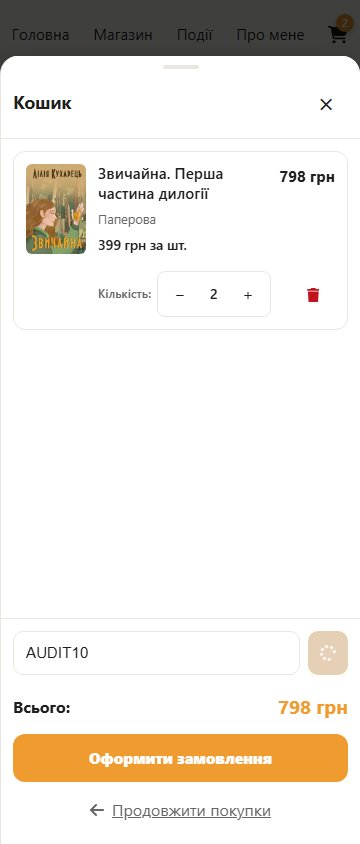
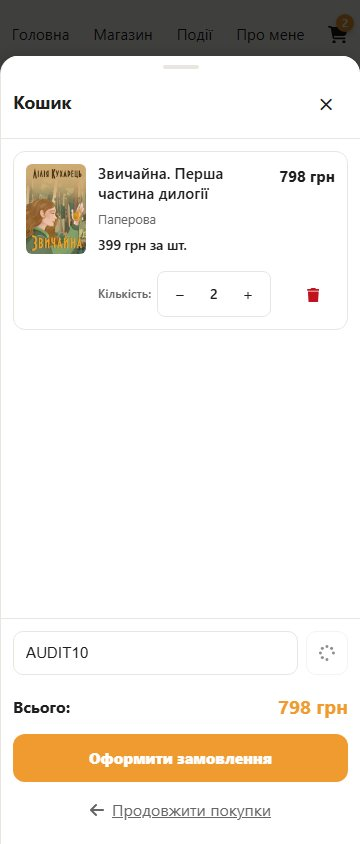
style: keep all promo actions secondary (ZVY-71) [skip netlify]

Changed region(s): [[0.8556, 0.7393, 0.9778, 0.8009]]

diff --git a/tests/e2e/promo-recovery.spec.ts b/tests/e2e/promo-recovery.spec.ts
@@ -64,6 +64,7 @@ for (const viewport of [{ width: 1440, height: 900 }, { width: 390, height: 844 
         await route.fulfill({ status, json: status === 200 ? promo : { message: "Controlled promo failure" } });
       });
       await input(page).fill("AUDIT10");
+      if (process.env.ZVY71_EVIDENCE_PHASE === "after") await capture(page, info, "entry", viewport.width);
       await cart(page).getByRole("button", { name: "Застосувати", exact: true }).click();
       try {
         await expect(input(page).locator("..").getByRole("button")).toBeDisabled();
@@ -138,9 +139,7 @@ for (const viewport of [{ width: 1440, height: 900 }, { width: 390, height: 844 
         const action = input(page).locator("..").getByRole("button");
         const checkout = cart(page).getByRole("button", { name: "Оформити замовлення", exact: true });
         const checkoutBackground = await checkout.evaluate(node => getComputedStyle(node).backgroundColor);
-        if (failure === "503") {
-          expect(await action.evaluate(node => getComputedStyle(node).backgroundColor)).not.toBe(checkoutBackground);
-        }
+        expect(await action.evaluate(node => getComputedStyle(node).backgroundColor)).not.toBe(checkoutBackground);
         await button.click();
         if (failure === "503") {
           try {
@@ -182,7 +181,10 @@ for (const viewport of [{ width: 1440, height: 900 }, { width: 390, height: 844 
         return route.fulfill({ status: 404, json: { message: "Invalid code" } });
       });
       const apply = input(page).locator("..").getByRole("button");
+      const checkoutBackground = await cart(page).getByRole("button", { name: "Оформити замовлення", exact: true })
+        .evaluate(node => getComputedStyle(node).backgroundColor);
       await expect(apply).toBeDisabled();
+      expect(await apply.evaluate(node => getComputedStyle(node).backgroundColor)).not.toBe(checkoutBackground);
       await input(page).fill("   ");
       await input(page).press("Enter");
       expect(calls).toBe(0);
@@ -191,6 +193,7 @@ for (const viewport of [{ width: 1440, height: 900 }, { width: 390, height: 844 
       try {
         await expect(apply).toBeDisabled();
         await expect(apply).toHaveAccessibleName("Перевіряємо промокод");
+        expect(await apply.evaluate(node => getComputedStyle(node).backgroundColor)).not.toBe(checkoutBackground);
         await expect(input(page)).toHaveAttribute("readonly", "");
         await input(page).press("x");
         await expect(input(page)).toHaveValue("AUDIT10");
@@ -200,6 +203,7 @@ for (const viewport of [{ width: 1440, height: 900 }, { width: 390, height: 844 
         await unchanged(page, selection);
       } finally { release(); }
       await expect(cart(page).getByRole("alert")).toBeVisible();
+      expect(await apply.evaluate(node => getComputedStyle(node).backgroundColor)).not.toBe(checkoutBackground);
       await input(page).fill("CORRECTED");
       await expect(cart(page).getByRole("alert")).toHaveCount(0);
       await expect(apply).toBeEnabled();

diff --git a/src/components/organisms/ShoppingCart.tsx b/src/components/organisms/ShoppingCart.tsx
@@ -42,8 +42,7 @@ export default function ShoppingCart({
 }: ShoppingCartProps) {
   const { appliedPromocode, discountAmount, getItemDiscount, applyPromocode, removePromocode } = useCart();
   const [promoInput, setPromoInput] = useState("");
-  const [applyingAction, setApplyingAction] = useState<"apply" | "retry" | null>(null);
-  const isApplying = applyingAction !== null;
+  const [isApplying, setIsApplying] = useState(false);
   const [promoFailure, setPromoFailure] = useState<"invalid" | "temporary" | null>(null);
   const applyingRef = useRef(false);
   const promoFeedbackId = useId();
@@ -95,7 +94,7 @@ export default function ShoppingCart({
   const handleApplyPromo = async () => {
     if (applyingRef.current || !promoInput.trim()) return;
     applyingRef.current = true;
-    setApplyingAction(promoFailure === "temporary" ? "retry" : "apply");
+    setIsApplying(true);
     setPromoFailure(null);
     try {
       await applyPromocode(promoInput.trim());
@@ -106,7 +105,7 @@ export default function ShoppingCart({
       setPromoFailure(status === 400 || status === 404 || status === 422 ? "invalid" : "temporary");
     } finally {
       applyingRef.current = false;
-      setApplyingAction(null);
+      setIsApplying(false);
     }
   };
 
@@ -277,7 +276,7 @@ export default function ShoppingCart({
                   <button
                     onClick={handleApplyPromo}
                     disabled={isApplying || !promoInput.trim()}
-                    className={`${styles.promoApplyBtn} ${promoFailure === "temporary" || applyingAction === "retry" ? styles.promoRetryBtn : ""}`}
+                    className={styles.promoApplyBtn}
                     aria-label={isApplying ? "Перевіряємо промокод" : undefined}
                   >
                     {isApplying ? <Icon name="spinner" spin /> : promoFailure === "temporary" ? "Повторити" : "Застосувати"}

diff --git a/src/components/organisms/ShoppingCart.module.css b/src/components/organisms/ShoppingCart.module.css
@@ -467,42 +467,23 @@
 
 .promoApplyBtn {
   padding: 0 20px;
-  background: var(--accent);
-  color: #fff;
-  border: none;
+  background: transparent;
+  color: var(--text);
+  border: 1px solid var(--border);
   border-radius: 10px;
-  font-weight: 700;
+  font-weight: 600;
   cursor: pointer;
-  transition: background 0.15s ease, transform 0.1s ease, box-shadow 0.15s ease;
+  transition: background 0.15s ease;
 }
 
 .promoApplyBtn:hover:not(:disabled) {
-  background: var(--accent);
-  transform: translateY(-1px);
-  box-shadow: 0 4px 12px rgba(240, 155, 48, 0.25);
-}
-
-.promoApplyBtn:active:not(:disabled) {
-  transform: translateY(0);
+  background: var(--accent-weak);
 }
 
 .promoApplyBtn:disabled {
   opacity: 0.5;
   cursor: not-allowed;
   filter: grayscale(0.5);
-}
-
-.promoRetryBtn {
-  background: transparent;
-  color: var(--text);
-  border: 1px solid var(--border);
-  font-weight: 600;
-}
-
-.promoRetryBtn:hover:not(:disabled) {
-  background: var(--accent-weak);
-  transform: none;
-  box-shadow: none;
 }
 
 .appliedPromo {

diff --git a/docs/storefront-promo-recovery/REPORT.md b/docs/storefront-promo-recovery/REPORT.md
@@ -6,7 +6,7 @@
 
 HTTP 400, 404 and 422 responses show persistent correction feedback beside the promo input. Network failures and other HTTP failures, including 503, 500, 429 and 401, show a temporary-failure explanation and a **Повторити** (Retry) button. The entered code is retained. Retry uses the same provider/API path and unchanged cart selection; a recovered service can apply the unchanged valid code.
 
-The promo row and feedback have a 6 px gap. Retry uses a neutral outline button while checkout retains its orange primary treatment. Retry keeps that secondary appearance during loading.
+The promo row and feedback have a 6 px gap. Apply and Retry share a neutral outline button in idle, invalid-code, temporary-failure and loading states while checkout retains its orange primary treatment. The applied-promo badge and removal action retain their existing appearance.
 
 The API error includes the actual response status even for non-JSON failure bodies. Promo requests propagate their errors to the cart, which owns the persistent feedback, avoiding a second generic network toast. Other API notification paths retain their existing behavior.
 
@@ -23,7 +23,7 @@ CartProvider updates the applied promo only after a successful request. No cart 
 - `src/components/organisms/ShoppingCart.module.css`: wrapping and spacing for inline feedback.
 - `tests/e2e/cart-promo-layout.spec.ts`: replace the former outage-as-invalid/toast-expiry assertions with the new persistent feedback expectations.
 - `tests/e2e/promo-recovery.spec.ts`: controlled rejection, outage, recovery, loading, persistence, amounts and evidence coverage.
-- This report and 27 JPG captures: 12 before, 12 matching after, and three additional after-only retry-loading captures.
+- This report and 30 JPG captures: 12 before, 12 matching after, and six additional after-only entry and retry-loading captures.
 
 ## Environment and reproducibility
 
@@ -68,6 +68,8 @@ These are matching local controlled captures of the recorded base and implementa
 
 The updated secondary Retry loading state is also captured at [1440×900](after/SCR-04-promo-retry-loading-1440x900.jpg), [390×844](after/SCR-04-promo-retry-loading-390x844.jpg), and [360×844](after/SCR-04-promo-retry-loading-360x844.jpg).
 
+The secondary Apply entry state is captured at [1440×900](after/SCR-04-promo-entry-1440x900.jpg), [390×844](after/SCR-04-promo-entry-390x844.jpg), and [360×844](after/SCR-04-promo-entry-360x844.jpg).
+
 ## Acceptance criteria and handoff
 
 | Criterion | Result |
@@ -95,10 +97,10 @@ Netlify deployment is skipped at the owner's explicit request. Keep `[skip netli
 
 ### Owner refinements
 
-The owner requested tighter feedback spacing and a less dominant Retry action. The gap was reduced from 10 px to 6 px, and Retry now has a neutral outline treatment. A loading action distinguishes apply from retry so that the spinner remains secondary during retry. Invalid-code correction and temporary-failure Retry messages remain distinct.
+The owner requested tighter feedback spacing and a less dominant Retry action, then consistent hierarchy across the other promo states. The gap was reduced from 10 px to 6 px. Apply and Retry now share the same neutral outline treatment, including disabled loading states. Invalid-code correction and temporary-failure Retry messages remain distinct.
 
-Lint, typecheck and the deterministic production build passed after these refinements. The updated promo-recovery and cart-layout run passed all 39 checks. The 503 scenarios hold the retry request open and assert a visible spinner, disabled action, readonly code, preserved secondary hierarchy, unchanged cart/total, and exactly one retry despite repeated mouse clicks and Enter. Error-state accessibility checks continue to pass at all three widths. The after captures were refreshed and three retry-loading captures added; the original before captures remain unchanged.
+Lint, typecheck and the deterministic production build passed after the final all-state refinements. The updated promo-recovery and cart-layout run passed all 39 checks. Tests assert secondary hierarchy for idle Apply, initial loading, rejected codes and temporary failures. The 503 scenarios hold the retry request open and assert a visible spinner, disabled action, readonly code, preserved secondary hierarchy, unchanged cart/total, and exactly one retry despite repeated mouse clicks and Enter. Error-state accessibility checks continue to pass at all three widths. The after captures were refreshed with three entry and three retry-loading captures; the original before captures remain unchanged.
 
-Visual review confirmed the tighter grouping, secondary idle/loading Retry and primary checkout hierarchy on desktop and narrow mobile. Current-head CI remains authoritative through the linked PR/branch checks above.
+Visual review confirmed the tighter grouping, secondary Apply/Retry throughout entry, error and loading states, and primary checkout hierarchy on desktop and narrow mobile. Current-head CI remains authoritative through the linked PR/branch checks above.
 
 The implementation is ready for code review once the current-head required CI check passes. Deployment/merge and final ZVY-58 journey verification remain the handoffs described above.
